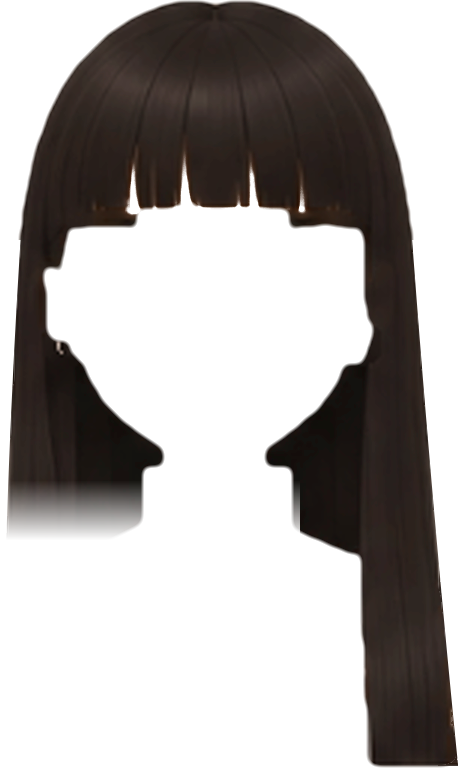
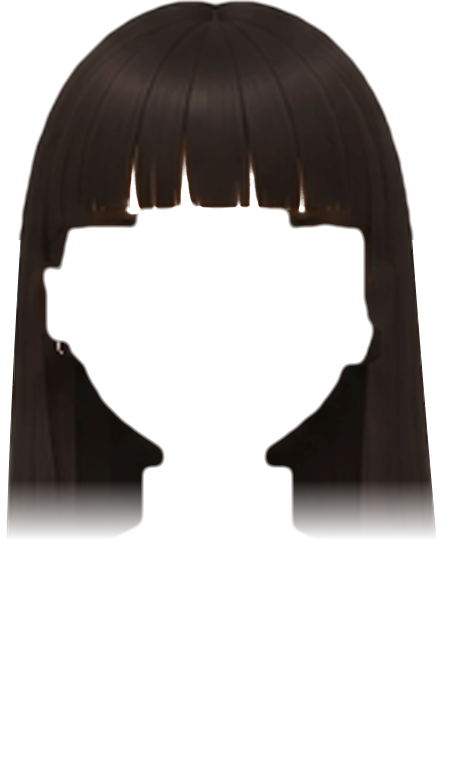
Frange droite : à droite aussi, les cheveux passent derrière l'épaule (v146)
Claude-Session: https://claude.ai/code/session_01RffJDTtPaeahFdiXkdY2ya

Changed region(s): [[0.6405, 0.625, 1.0, 1.0]]

diff --git a/tools/lisser-coiffure.py b/tools/lisser-coiffure.py
@@ -2,7 +2,7 @@
    python3 tools/lisser-coiffure.py <coiffure> <y_haut> <y_bas_gauche> <x_coupe_gauche>
    - bords extérieurs gauche et droit : courbes lisses ajustées sur le dessin (plus de crans ni de halo) ;
    - derrière (-dos) : la mèche de gauche continue jusqu'en bas (copie verticale des mèches, les cheveux tombent droit) ;
-   - devant : le bas de la mèche de gauche s'efface doucement, la suite est derrière l'épaule."""
+   - devant : le bas des mèches s'efface doucement, la suite est derrière les épaules (elles ne « mangent » pas l'épaule)."""
 import sys, numpy as np
 from PIL import Image
 D = 'assets/coiffures/'
@@ -43,7 +43,7 @@ d2 = clean(dos, True)
 f = np.array(Image.open(D + name + '.png').convert('RGBA')).astype(float)
 f2 = clean(f, False)
 for y in range(YB - 60, H):              # devant : le bas de la mèche de gauche s'efface (elle passe derrière l'épaule)
-    f2[y, :XC, 3] *= np.clip((YB - y) / 60, 0, 1)
+    f2[y, :, 3] *= np.clip((YB - y) / 60, 0, 1)   # des deux côtés : les mèches passent derrière les épaules
 Image.fromarray(d2.clip(0, 255).astype(np.uint8)).save(D + name + '-dos.png', optimize=True)
 Image.fromarray(f2.clip(0, 255).astype(np.uint8)).save(D + name + '.png', optimize=True)
 print('ok', name)
